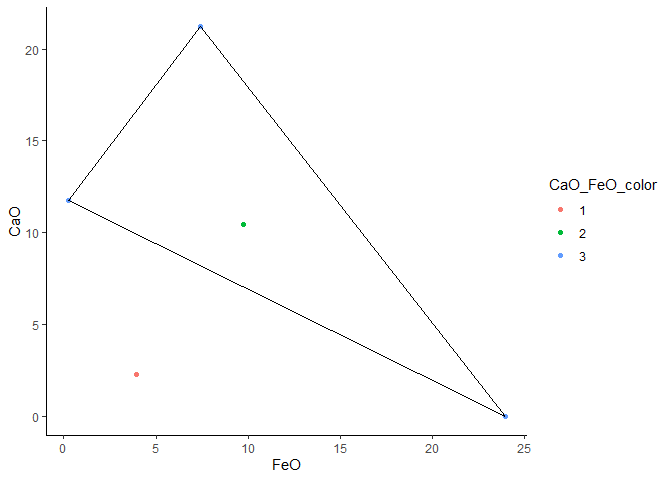
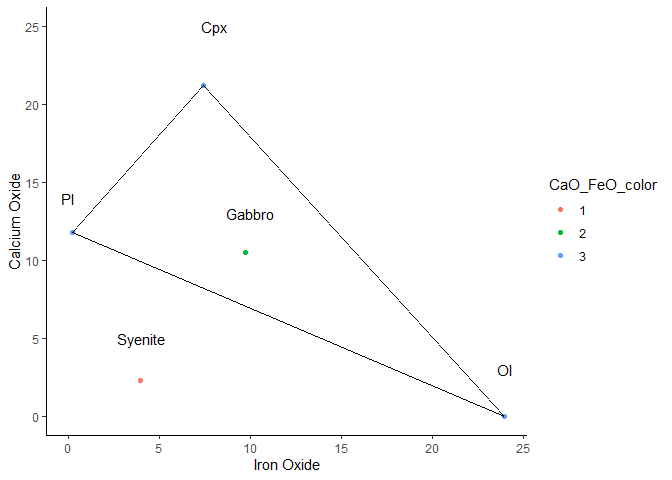
Aluminium and calcium plots with lines and labes

diff --git a/Pllng_in_csv_manpltng.md b/Pllng_in_csv_manpltng.md
@@ -36,7 +36,13 @@ CaO_FeO_Plot <-
   ggplot()+
   geom_point(data=CaO_FeO_data, aes(x = FeO, y = CaO, color=CaO_FeO_color))+
   geom_segment(data=CaO_FeO_lines, aes(x=xstart, y=ystart, xend=xend, yend=yend))+
-  theme_classic()
+  theme_classic()+
+    labs(x="Iron Oxide", y="Calcium Oxide")+
+  annotate("text", x=0, y=14, label="Pl")+
+  annotate("text",x=8, y=25, label= "Cpx")+
+  annotate("text",x=24, y=3, label= "Ol")+
+  annotate("text",x=10, y=13, label= "Gabbro")+
+  annotate("text",x=4, y=5, label= "Syenite")
 CaO_FeO_Plot
 ```
 
@@ -62,7 +68,13 @@ CaO_SiO2_Plot <-
   ggplot()+
   geom_point(data=CaO_SiO2_data, aes(x = SiO2, y = CaO, color=CaO_SiO2_color))+
   geom_segment(data=CaO_SiO2_lines, aes(x=xstart, y=ystart, xend=xend, yend=yend))+
-  theme_classic()
+  theme_classic()+
+  labs(x="Silica Oxide", y="Calcium Oxide")+
+  annotate("text", x=55, y=12, label="Pl")+
+  annotate("text",x=50, y=25, label= "Cpx")+
+  annotate("text",x=37, y=3, label= "Ol")+
+  annotate("text",x=47, y=13, label= "Gabbro")+
+  annotate("text",x=59, y=5, label= "Syenite")
 CaO_SiO2_Plot
 ```
 
